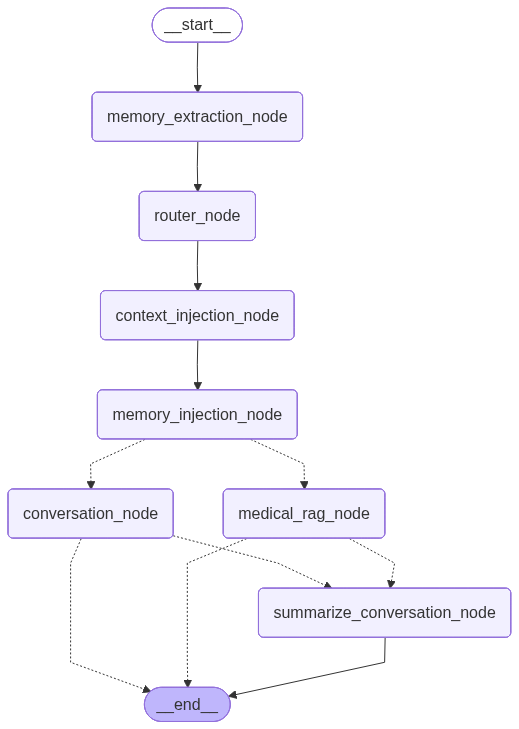
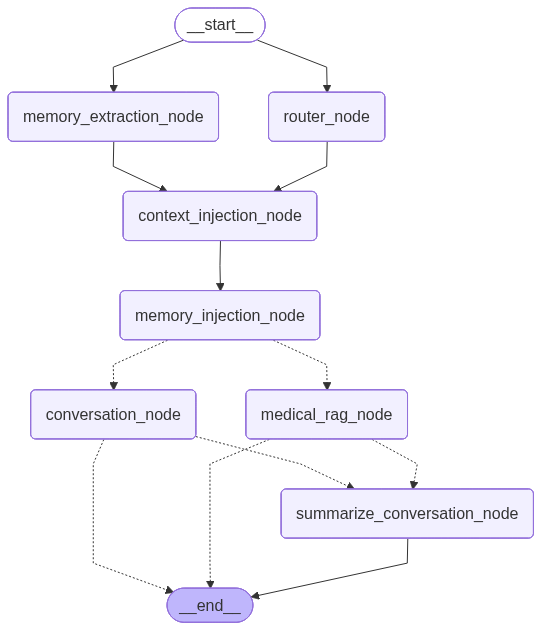
perf: optimize inference pipeline and reduce response latency

Changed region(s): [[0.0, 0.0, 1.0, 0.9952], [0.7091, 0.1508, 0.7399, 0.2111], [0.2158, 0.9048, 0.2466, 0.9349]]

diff --git a/src/house_gpt/api/v1/routers/chat.py b/src/house_gpt/api/v1/routers/chat.py
@@ -1,12 +1,12 @@
 from fastapi import APIRouter, Request, Response, UploadFile, File, Form
 from langchain_core.messages import HumanMessage, AIMessage
-from langgraph.checkpoint.sqlite.aio import AsyncSqliteSaver
-from house_gpt.agent.graph.graph import create_workflow_graph
 from fastapi.responses import JSONResponse
 from house_gpt.multimodal.speech import SpeechToText
 from house_gpt.core.logger import AppLogger
 from house_gpt.core.settings import settings
 from house_gpt.services.graph_services import invoke_graph
+from house_gpt.core.graph_instance import get_graph
+import time
 
 logger = AppLogger("API")
 chat_router = APIRouter()
@@ -17,6 +17,7 @@ stt = SpeechToText()
 @chat_router.post("/chat")
 async def chat_handler(request: Request):
     try:
+        start = time.time()
         data = await request.json()
         message = data.get("message", "").strip()
         session_id = data.get("session_id", "")
@@ -30,18 +31,14 @@ async def chat_handler(request: Request):
             f"[START] session={session_id} message={message[:50]}"
         )
 
-        async with AsyncSqliteSaver.from_conn_string(settings.SHORT_TERM_MEMORY_DB_PATH) as memory:
-            graph = create_workflow_graph().compile(checkpointer=memory)
-            await graph.ainvoke(
-                {"messages": [HumanMessage(content=message)], "user_id": session_id},
-                {"configurable": {"thread_id": session_id}},
-            )
-            output_state = await graph.aget_state(
-                config={"configurable": {"thread_id": session_id}}
-            )
+        output_state = await invoke_graph(message, session_id)
 
         response_message = output_state.values["messages"][-1].content
         workflow = output_state.values.get("workflow", "conversation")
+
+        end = time.time()
+        duration = end - start
+        print(f"Duration Taked: {duration}")
 
         return JSONResponse(
             content={

diff --git a/src/house_gpt/memory/ltm/vector_store.py b/src/house_gpt/memory/ltm/vector_store.py
@@ -12,6 +12,11 @@ from qdrant_client.models import (
 from langchain_ollama.embeddings import OllamaEmbeddings
 from typing import List, Optional
 
+
+
+_qdrant_client = QdrantClient(url=settings.QDRANT_URL, api_key=settings.QDRANT_API_KEY, timeout=60)
+_embedding_model = OllamaEmbeddings(model=settings.EMBEDDING_MODEL_NAME)
+
 class VectorStore:
     REQUIRED_ENV_VARS = ["QDRANT_URL", "QDRANT_API_KEY"]
     COLLECTION_NAME = 'long_term_memory'
@@ -19,8 +24,8 @@ class VectorStore:
 
     def __init__(self, user_id: str) -> None:
         self._validate_env_vars()
-        self.model = OllamaEmbeddings(model=settings.EMBEDDING_MODEL_NAME)
-        self.client = QdrantClient(url=settings.QDRANT_URL, api_key=settings.QDRANT_API_KEY, timeout=60)
+        self.model = _embedding_model
+        self.client = _qdrant_client
         self._user_id = user_id
 
     def _validate_env_vars(self) -> None:
@@ -55,12 +60,12 @@ class VectorStore:
         return None
 
     def store_memory(self, text: str, metadata: dict) -> None:
-        # if not self._collection_exists():
-        #     self._create_collection()
-
         similar_memory = self.find_similarity_memory(text)
         if similar_memory and similar_memory.id:
             metadata["id"] = similar_memory.id
+
+        
+        self.logger.info(f"Storing new memory: '{analysis.formatted_memory}'", user_id=self.user_id)
 
         embedding = self.model.embed_query(text)
         point = PointStruct(
@@ -76,9 +81,6 @@ class VectorStore:
         self.client.upsert(collection_name=self.COLLECTION_NAME, points=[point])
 
     def search_memories(self, query: str, k: int = 5) -> List[Memory]:
-        if not self._collection_exists():
-            return []
-
         query_embedding = self.model.embed_query(query)
         results = self.client.query_points(
             collection_name=self.COLLECTION_NAME,

diff --git a/src/house_gpt/agent/graph/nodes/memory_nodes.py b/src/house_gpt/agent/graph/nodes/memory_nodes.py
@@ -1,22 +1,41 @@
+import asyncio
+import time
+from house_gpt.core.logger import AppLogger
 from house_gpt.memory.ltm.memory_manager import get_memory_manager
 from house_gpt.states.house import AIHouseState
 from house_gpt.agent.helpers.formatter import get_format_memories
 
+_background_tasks: set[asyncio.Task] = set()
+logger = AppLogger("Memory_nodes")
 
 async def memory_extraction_node(state: AIHouseState):
+    t = time.time()
     if not state["messages"]:
         return {}
 
-    memory_manager = get_memory_manager(state["user_id"])
-    await memory_manager.extract_and_store_memories(state["messages"][-1])
+    task = asyncio.create_task(
+        _safe_extract_memories(state["messages"][-1], state["user_id"])
+    )
+    _background_tasks.add(task)
+    task.add_done_callback(_background_tasks.discard)
+    print(f"[TIMER] memory_extraction_node: {time.time() - t:.2f}s")
     return {}
 
 def memory_injection_node(state: AIHouseState):
+    t = time.time()
     memory_manager = get_memory_manager(state["user_id"])
 
     recent_context = " ".join([m.content for m in state["messages"][-3:]])
     memories = memory_manager.get_relevant_memories(recent_context)
 
     memory_context = get_format_memories(memories)
-
+    print(f"[TIMER] inject_node: {time.time() - t:.2f}s")
     return {"memory_context": memory_context}
+
+
+async def _safe_extract_memories(message, user_id: str):
+    try:
+        memory_manager = get_memory_manager(user_id)
+        await memory_manager.extract_and_store_memories(message)
+    except Exception as e:
+        logger.error(f"Background memory extraction failed: {e}", exc_info=True)

diff --git a/src/house_gpt/services/graph_services.py b/src/house_gpt/services/graph_services.py
@@ -1,16 +1,13 @@
 from langchain_core.messages import HumanMessage
-from langgraph.checkpoint.sqlite.aio import AsyncSqliteSaver
-from house_gpt.agent.graph import create_workflow_graph
-from house_gpt.core.settings import settings
+from house_gpt.core.graph_instance import get_graph
 
 async def invoke_graph(message: str, session_id: str):
-    async with AsyncSqliteSaver.from_conn_string(settings.SHORT_TERM_MEMORY_DB_PATH) as memory:
-        graph = create_workflow_graph().compile(checkpointer=memory)
-        await graph.ainvoke(
-            {"messages": [HumanMessage(content=message)], "user_id": session_id},
-            {"configurable": {"thread_id": session_id}},
-        )
-        output_state = await graph.aget_state(
-            config={"configurable": {"thread_id": session_id}}
-        )
+    compiled_graph = get_graph()
+    await compiled_graph.ainvoke(
+        {"messages": [HumanMessage(content=message)], "user_id": session_id},
+        {"configurable": {"thread_id": session_id}},
+    )
+    output_state = await compiled_graph.aget_state(
+        config={"configurable": {"thread_id": session_id}}
+    )
     return output_state

diff --git a/src/house_gpt/memory/ltm/memory_manager.py b/src/house_gpt/memory/ltm/memory_manager.py
@@ -9,6 +9,7 @@ from langchain_core.messages import BaseMessage
 from datetime import datetime
 from typing import List
 
+
 class MemoryManager:
     def __init__(self, user_id: str):
         self.user_id = user_id
@@ -26,12 +27,6 @@ class MemoryManager:
 
         analysis = await self._analyze_memory(message.content)
         if analysis.is_important and analysis.formatted_memory:
-            similar = self.vector_store.find_similarity_memory(analysis.formatted_memory)
-            if similar:
-                self.logger.info(f"Similar memory already exists: '{analysis.formatted_memory}'", user_id=self.user_id)
-                return
-            
-            self.logger.info(f"Storing new memory: '{analysis.formatted_memory}'", user_id=self.user_id)
             self.vector_store.store_memory(
                 text=analysis.formatted_memory,
                 metadata={

diff --git a/src/house_gpt/agent/graph/graph.py b/src/house_gpt/agent/graph/graph.py
@@ -27,7 +27,8 @@ def create_workflow_graph():
     graph_builder.add_node("summarize_conversation_node", summarize_conversation_node)
 
     graph_builder.add_edge(START, "memory_extraction_node")
-    graph_builder.add_edge("memory_extraction_node", "router_node")
+    graph_builder.add_edge(START, "router_node")
+    graph_builder.add_edge("memory_extraction_node", "context_injection_node")
     graph_builder.add_edge("router_node", "context_injection_node")
     graph_builder.add_edge("context_injection_node", "memory_injection_node")
     graph_builder.add_conditional_edges("memory_injection_node", select_workflow)
@@ -48,6 +49,7 @@ def save_graph_image(graph, filename: str = "house_gpt_graph.png"):
 
     print(f"Graph saved → {output_path.resolve()}")
     return output_path
+
 
 def get_graph_builder():
     graph = create_workflow_graph().compile()

diff --git a/src/house_gpt/agent/helpers/model_factory.py b/src/house_gpt/agent/helpers/model_factory.py
@@ -1,17 +1,22 @@
 from house_gpt.core.settings import settings
 from langchain_ollama import ChatOllama
+from langchain_openai import ChatOpenAI
 from langchain_core.output_parsers import StrOutputParser
 
 def get_small_model(temperature: float = 0.7):
-    return ChatOllama(
-        model=settings.SMALL_TEXT_MODEL_NAME,
+    return ChatOpenAI(
+         model=settings.SMALL_TEXT_MODEL_NAME,
+        base_url=settings.OPENROUTER_URL,
+        api_key=settings.OPENROUTER_API_KEY,
         temperature=temperature,
         max_retries=2
     )
 
 def get_large_model(temperature: float = 0.7):
-    return ChatOllama(
+    return ChatOpenAI(
         model=settings.LARGE_TEXT_MODEL_NAME,
+        base_url=settings.OPENROUTER_URL,
+        api_key=settings.OPENROUTER_API_KEY,
         temperature=temperature,
         max_retries=2
     )

diff --git a/src/house_gpt/agent/graph/nodes/conversation_nodes.py b/src/house_gpt/agent/graph/nodes/conversation_nodes.py
@@ -1,4 +1,4 @@
-
+import time
 from langchain_core.messages import AIMessage
 from langchain_core.runnables import RunnableConfig
 from house_gpt.states.house import AIHouseState
@@ -7,6 +7,7 @@ from house_gpt.schedules.context_generation import ScheduleContextGenerator
 
 
 async def conversation_node(state: AIHouseState, config: RunnableConfig):
+    t = time.time()
     current_activity = ScheduleContextGenerator.get_current_activity()
     memory_context = state.get("memory_context", "")
 
@@ -17,5 +18,5 @@ async def conversation_node(state: AIHouseState, config: RunnableConfig):
         "current_activity": current_activity,
         "memory_context": memory_context
     }, config=config)
-
+    print(f"[TIMER] conversation_node: {time.time() - t:.2f}s")
     return {"messages": AIMessage(content=response)}

diff --git a/src/house_gpt/api/v1/app.py b/src/house_gpt/api/v1/app.py
@@ -1,6 +1,19 @@
+# main.py
+import aiosqlite
 from fastapi import FastAPI
+from langgraph.checkpoint.sqlite.aio import AsyncSqliteSaver
+from house_gpt.agent.graph.graph import create_workflow_graph
 from house_gpt.core.settings import settings
+from house_gpt.core.graph_instance import set_graph
 from house_gpt.api.v1.routers.chat import chat_router
 
 app = FastAPI(title="HouseGPT API", version="1.0.0")
+
+@app.on_event("startup")
+async def startup():
+    conn = await aiosqlite.connect(settings.SHORT_TERM_MEMORY_DB_PATH)
+    checkpointer = AsyncSqliteSaver(conn)
+    graph = create_workflow_graph().compile(checkpointer=checkpointer)
+    set_graph(graph)
+
 app.include_router(chat_router, prefix="/api/v1")

diff --git a/src/house_gpt/agent/graph/nodes/context_nodes.py b/src/house_gpt/agent/graph/nodes/context_nodes.py
@@ -1,12 +1,14 @@
 from house_gpt.schedules.context_generation import ScheduleContextGenerator
 from house_gpt.states.house import AIHouseState
-
+import time
 
 def context_injection_node(state: AIHouseState):
+    t = time.time()
     schedule_context = ScheduleContextGenerator.get_current_activity()
     if schedule_context != state.get("current_activity", ""):
         apply_activity = True
     else:
         apply_activity = False
 
+    print(f"[TIMER] context_injection_node: {time.time() - t:.2f}s")
     return {"apply_activity": apply_activity, "current_activity": schedule_context}

diff --git a/src/house_gpt/agent/chains/chains.py b/src/house_gpt/agent/chains/chains.py
@@ -1,9 +1,12 @@
+from functools import lru_cache
 from house_gpt.agent.helpers.model_factory import get_small_model, get_large_model
 from house_gpt.agent.helpers.formatter import AsteriskRemovalParser
 from house_gpt.states.response import RouterResponse
 from house_gpt.agent.prompts import ROUTER_PROMPT, CHARACTER_CARD_PROMPT
 from langchain_core.prompts import ChatPromptTemplate, MessagesPlaceholder
 
+
+@lru_cache(maxsize=1)
 def get_router_chain():
     model = get_small_model(temperature=0.2).with_structured_output(RouterResponse)
 

diff --git a/src/house_gpt/core/settings.py b/src/house_gpt/core/settings.py
@@ -10,8 +10,11 @@ class Settings(BaseSettings):
     QDRANT_PORT: str = "6333"
     QDRANT_HOST: str | None = None
 
-    LARGE_TEXT_MODEL_NAME: str = "qwen2.5:7b"
-    SMALL_TEXT_MODEL_NAME: str = "qwen2.5:7b"
+    OPENROUTER_URL: str
+    OPENROUTER_API_KEY: str
+
+    LARGE_TEXT_MODEL_NAME: str = "openai/gpt-4o-mini"
+    SMALL_TEXT_MODEL_NAME: str = "openai/gpt-4o-mini"
     EMBEDDING_MODEL_NAME: str = "qwen3-embedding:8b"
     STT_MODEL_NAME: str = "medium"
     TTS_MODEL_NAME: str = "eleven_flash_v2_5"
